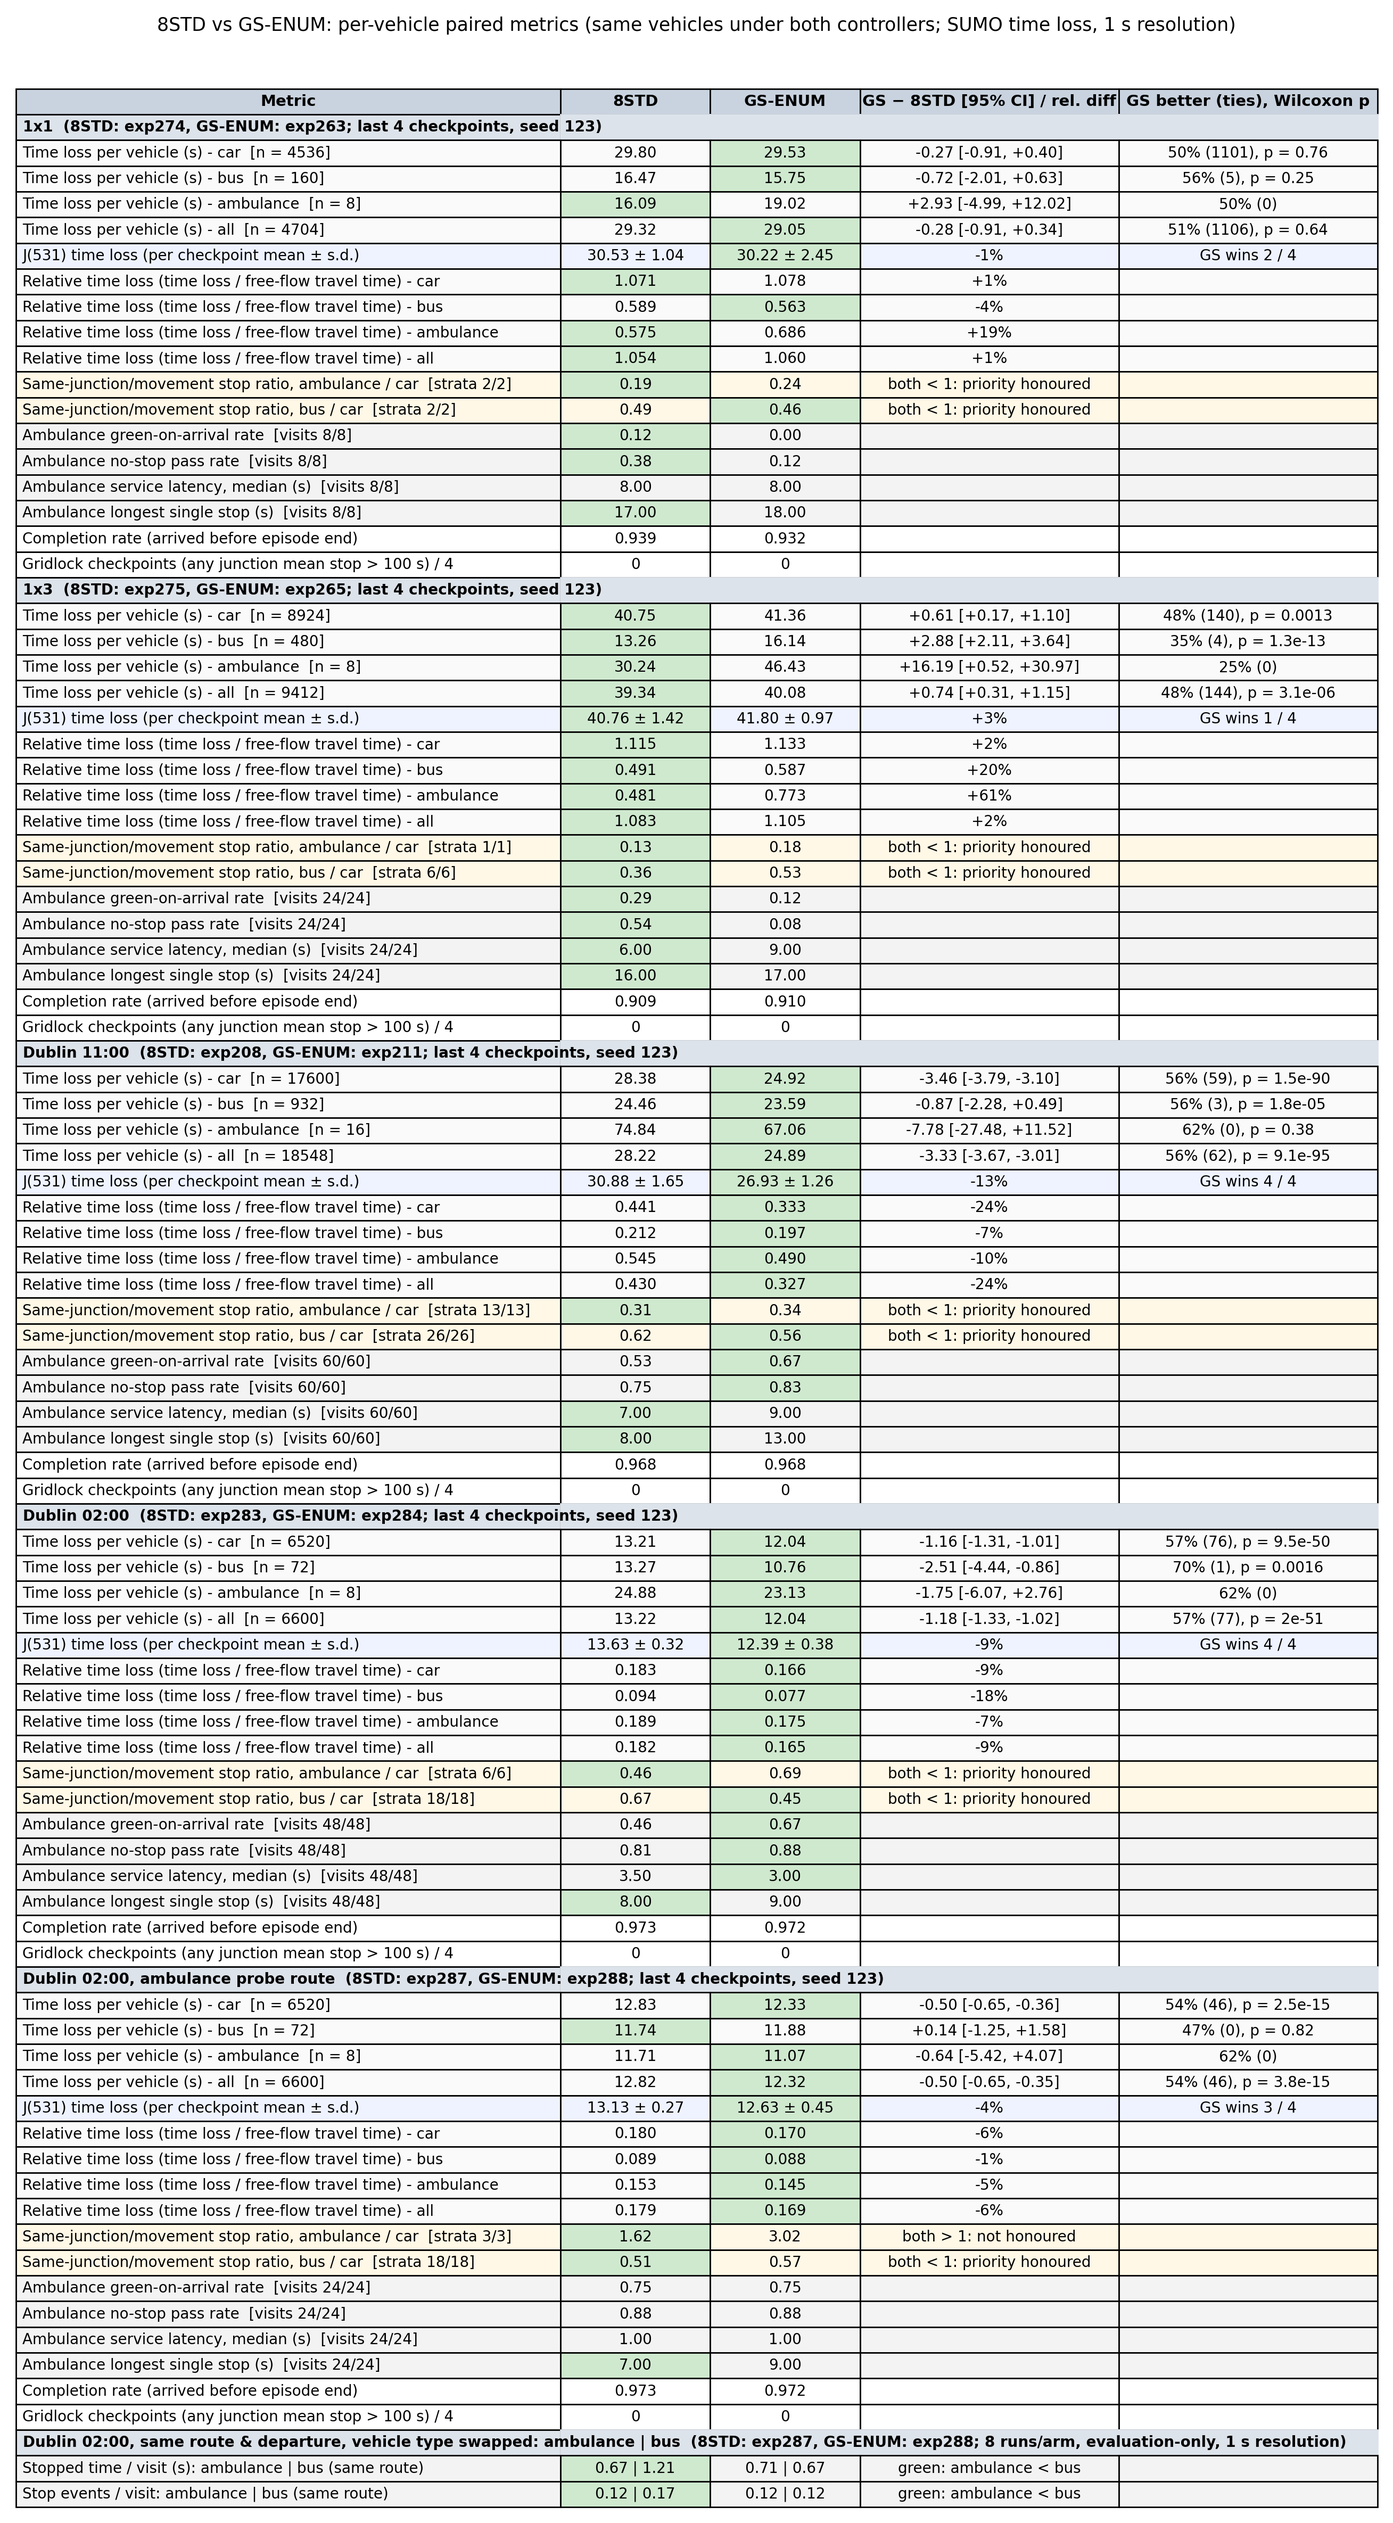
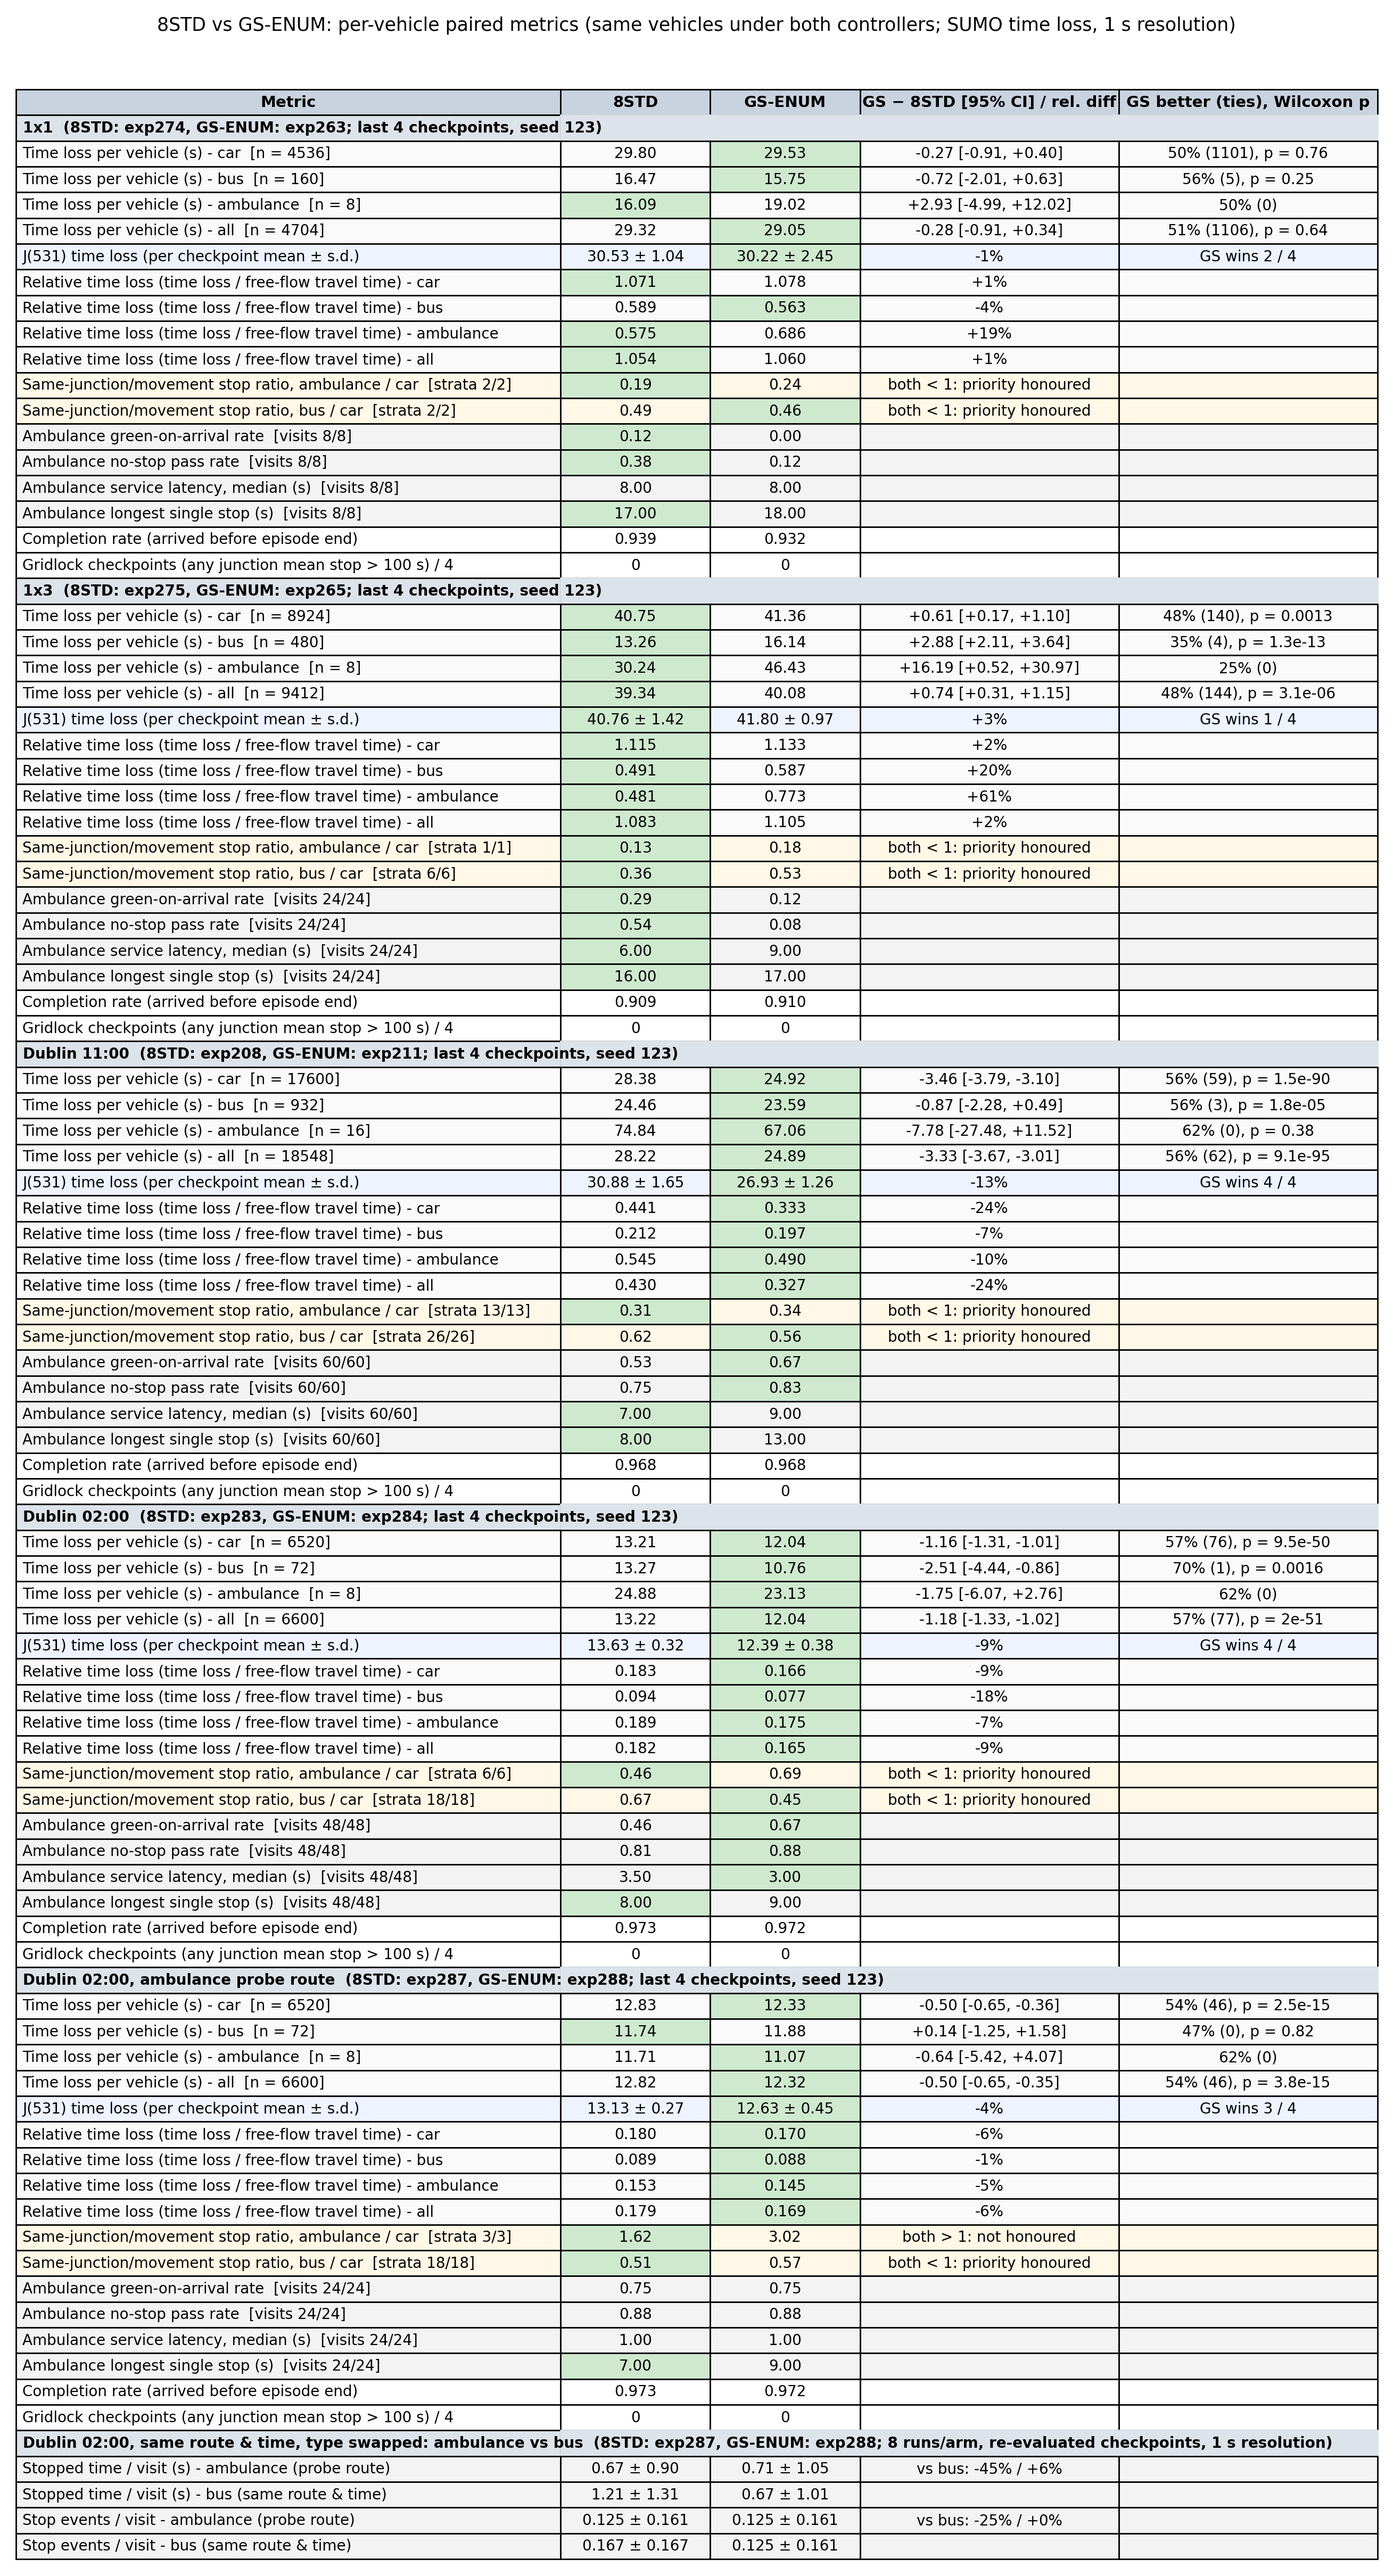
换车型块: 救护车/公交分行并加 ± sd, 百分比移到最后一列, 标题注明重评估检查点与 1 s 分辨率 (与尾40 日志口径区分)

diff --git a/experiments/tools/figures/plot_pervehicle_table_2026-09-30.py b/experiments/tools/figures/plot_pervehicle_table_2026-09-30.py
@@ -151,12 +151,11 @@ def render(results, out_png):
         cells.append([f"Gridlock checkpoints (any junction mean stop > 100 s) / {a['K']}", str(a["gridlock"]), str(b["gridlock"]), "", ""]); colors.append(["#ffffff"]*5)
     TS=json.load(open("experiments/analysis/data/typeswap_02h_pervisit_2026-09-30.json")) if os.path.exists("experiments/analysis/data/typeswap_02h_pervisit_2026-09-30.json") else {}
     if "8STD" in TS and "GS" in TS:
-        hdr.append(len(cells)+1); titles.append(f"Dublin 02:00, same route & departure, vehicle type swapped: ambulance | bus  (8STD: exp287, GS-ENUM: exp288; {TS['8STD']['n']} runs/arm, evaluation-only, 1 s resolution)"); cells.append(["","","","",""]); colors.append(["#dde3ea"]*5)
-        for key,lab in (("pv","Stopped time / visit (s): ambulance | bus (same route)"),("ev","Stop events / visit: ambulance | bus (same route)")):
-            a,b=TS["8STD"][key],TS["GS"][key]; col=["#f3f3f3"]*5
-            for i_,v in ((1,a),(2,b)):
-                if v[0]<v[1]: col[i_]=GREEN
-            cells.append([lab, f"{a[0]:.2f} | {a[1]:.2f}", f"{b[0]:.2f} | {b[1]:.2f}", "green: ambulance < bus", ""]); colors.append(col)
+        hdr.append(len(cells)+1); titles.append(f"Dublin 02:00, same route & time, type swapped: ambulance vs bus  (8STD: exp287, GS-ENUM: exp288; {TS['8STD']['n']} runs/arm, re-evaluated checkpoints, 1 s resolution)"); cells.append(["","","","",""]); colors.append(["#dde3ea"]*5)
+        for key,sdk,lab in (("pv","pv_sd","Stopped time / visit (s)"),("ev","ev_sd","Stop events / visit")):
+            a,b=TS["8STD"][key],TS["GS"][key]; asd,bsd=TS["8STD"][sdk],TS["GS"][sdk]; d=3 if key=="ev" else 2
+            cells.append([f"{lab} - ambulance (probe route)", f"{a[0]:.{d}f} ± {asd[0]:.{d}f}", f"{b[0]:.{d}f} ± {bsd[0]:.{d}f}", f"vs bus: {100*(a[0]/a[1]-1):+.0f}% / {100*(b[0]/b[1]-1):+.0f}%", ""]); colors.append(["#f3f3f3"]*5)
+            cells.append([f"{lab} - bus (same route & time)", f"{a[1]:.{d}f} ± {asd[1]:.{d}f}", f"{b[1]:.{d}f} ± {bsd[1]:.{d}f}", "", ""]); colors.append(["#f3f3f3"]*5)
     fig,ax=plt.subplots(figsize=(16.5,0.3*len(cells)+2)); ax.axis("off")
     tbl=ax.table(cellText=cells,colLabels=["Metric","8STD","GS-ENUM","GS − 8STD [95% CI] / rel. diff","GS better (ties), Wilcoxon p"],cellColours=colors,colColours=["#c9d3df"]*5,loc="upper center",cellLoc="center",colWidths=[0.40,0.11,0.11,0.19,0.19])
     tbl.auto_set_font_size(False); tbl.scale(1,1.45)

diff --git a/experiments/tools/figures/plot_main_table_en_2026-09-22.py b/experiments/tools/figures/plot_main_table_en_2026-09-22.py
@@ -57,13 +57,13 @@ for scen,d,wins in S:
 import json as _json
 TS=_json.load(open("experiments/analysis/data/typeswap_02h_pervisit_2026-09-30.json"))
 hdr.append(len(cells)+1); cells.append(["","","","",""]); colors.append(["#dde3ea"]*5)
-TSWAP_TITLE=f"Dublin 02:00, same route & departure, type swapped: ambulance | bus  (8STD: exp287, GS-ENUM: exp288; ep650-800, {TS['8STD']['n']} runs/arm)"
-for key,lab in (("pv","Stopped time / visit (s): ambulance | bus (same route)"),("ev","Stop events / visit: ambulance | bus (same route)")):
-    a,b=TS["8STD"][key],TS["GS"][key]; col=["#f3f3f3"]*5
-    for i_,v in ((1,a),(2,b)):
-        if v[0]<v[1]: col[i_]=GREEN
-    cells.append([lab, f"{a[0]:.2f} | {a[1]:.2f}", f"{b[0]:.2f} | {b[1]:.2f}", "", "green: amb < bus"]); colors.append(col)
-fig,ax=plt.subplots(figsize=(13.5,42.5)); ax.axis("off")
+TSWAP_TITLE=f"Dublin 02:00, same route & time, type swapped: ambulance vs bus  (exp287 / exp288 re-evaluated at ep650-800, {TS['8STD']['n']} runs/arm, 1 s resolution)"
+for key,sdk,lab in (("pv","pv_sd","Stopped time / visit (s)"),("ev","ev_sd","Stop events / visit")):
+    a,b=TS["8STD"][key],TS["GS"][key]; asd,bsd=TS["8STD"][sdk],TS["GS"][sdk]
+    d=3 if key=="ev" else 2
+    cells.append([f"{lab} - ambulance (probe route)", f"{a[0]:.{d}f} ± {asd[0]:.{d}f}", f"{b[0]:.{d}f} ± {bsd[0]:.{d}f}", "", f"vs bus: {100*(a[0]/a[1]-1):+.0f}%, {100*(b[0]/b[1]-1):+.0f}%"]); colors.append(["#f3f3f3"]*5)
+    cells.append([f"{lab} - bus (same route & time)", f"{a[1]:.{d}f} ± {asd[1]:.{d}f}", f"{b[1]:.{d}f} ± {bsd[1]:.{d}f}", "", ""]); colors.append(["#f3f3f3"]*5)
+fig,ax=plt.subplots(figsize=(13.5,43.5)); ax.axis("off")
 tbl=ax.table(cellText=cells,colLabels=["Metric","8STD","GS-ENUM","Rel. diff","GS wins / paired"],cellColours=colors,colColours=["#c9d3df"]*5,loc="upper center",cellLoc="center",colWidths=[0.40,0.17,0.17,0.11,0.15])
 tbl.auto_set_font_size(False); tbl.scale(1,1.45)
 for (r,c),cell in tbl.get_celld().items():
